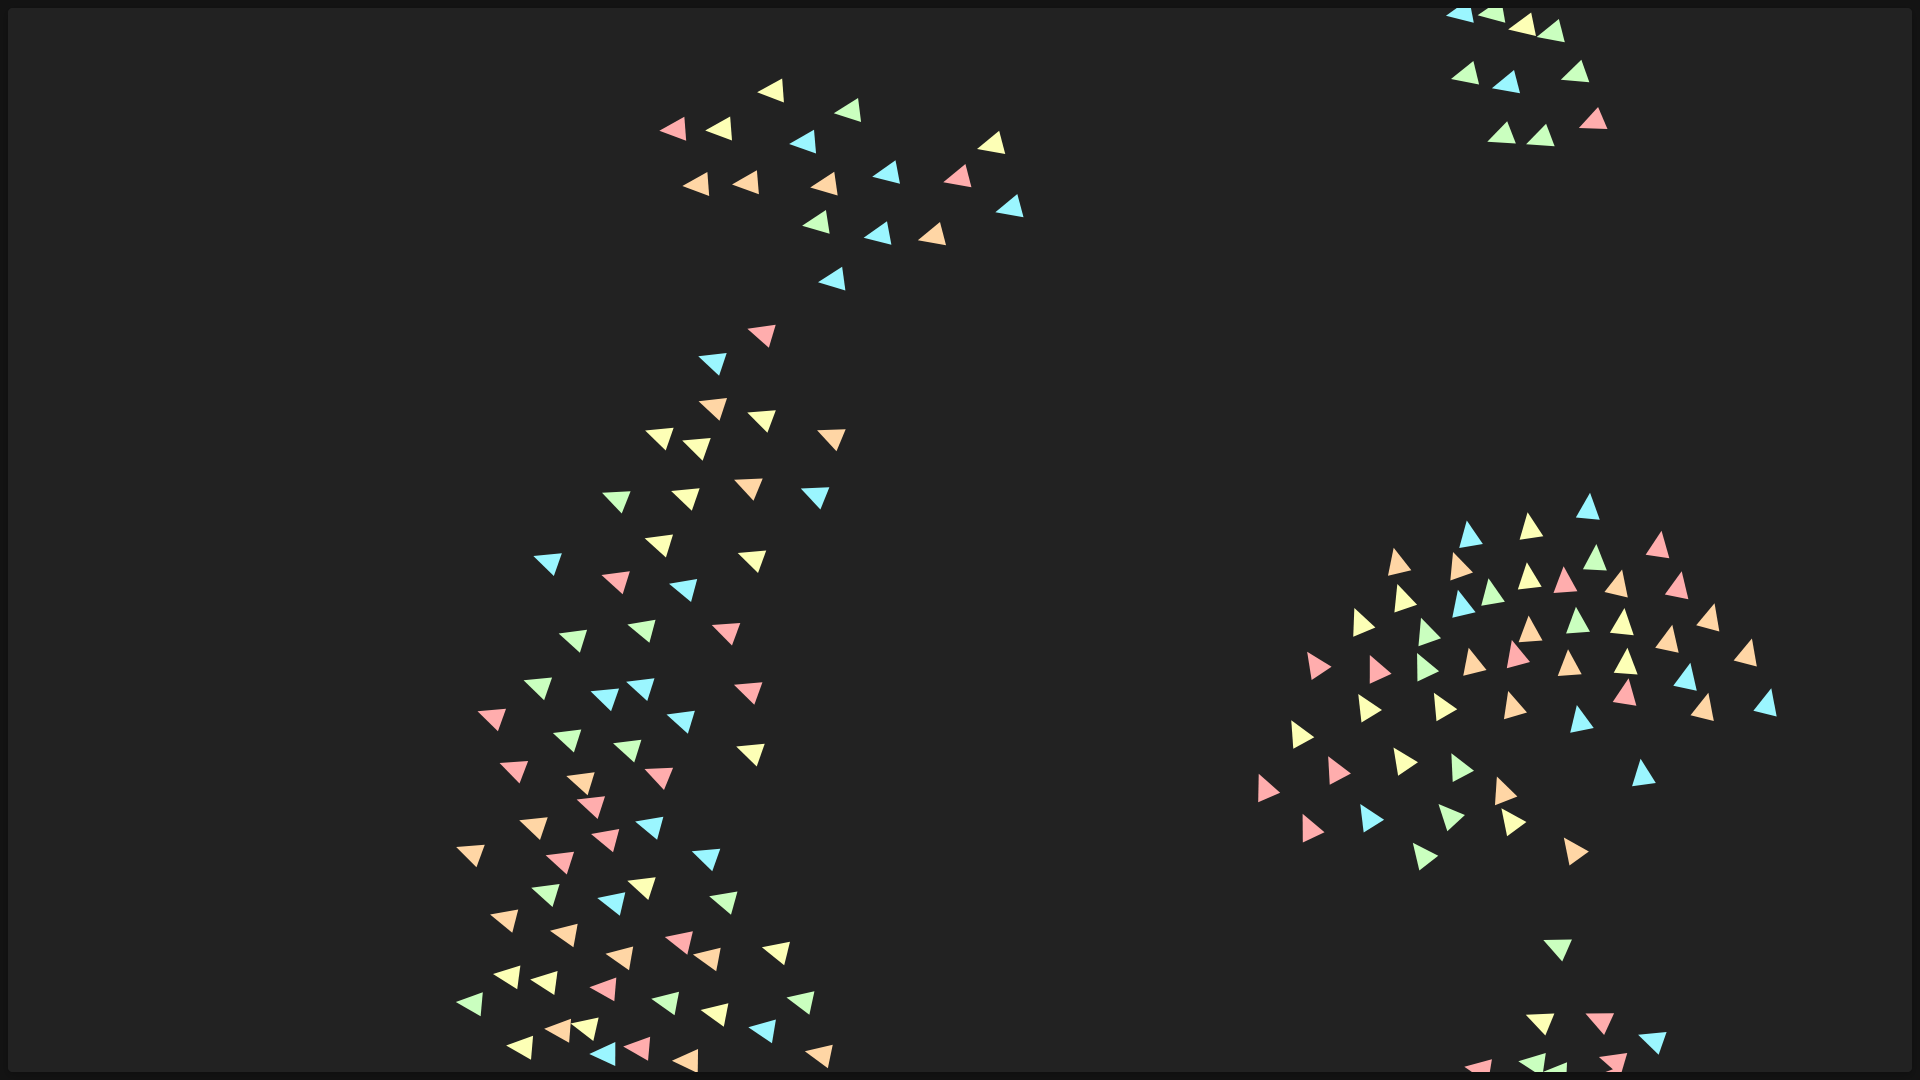
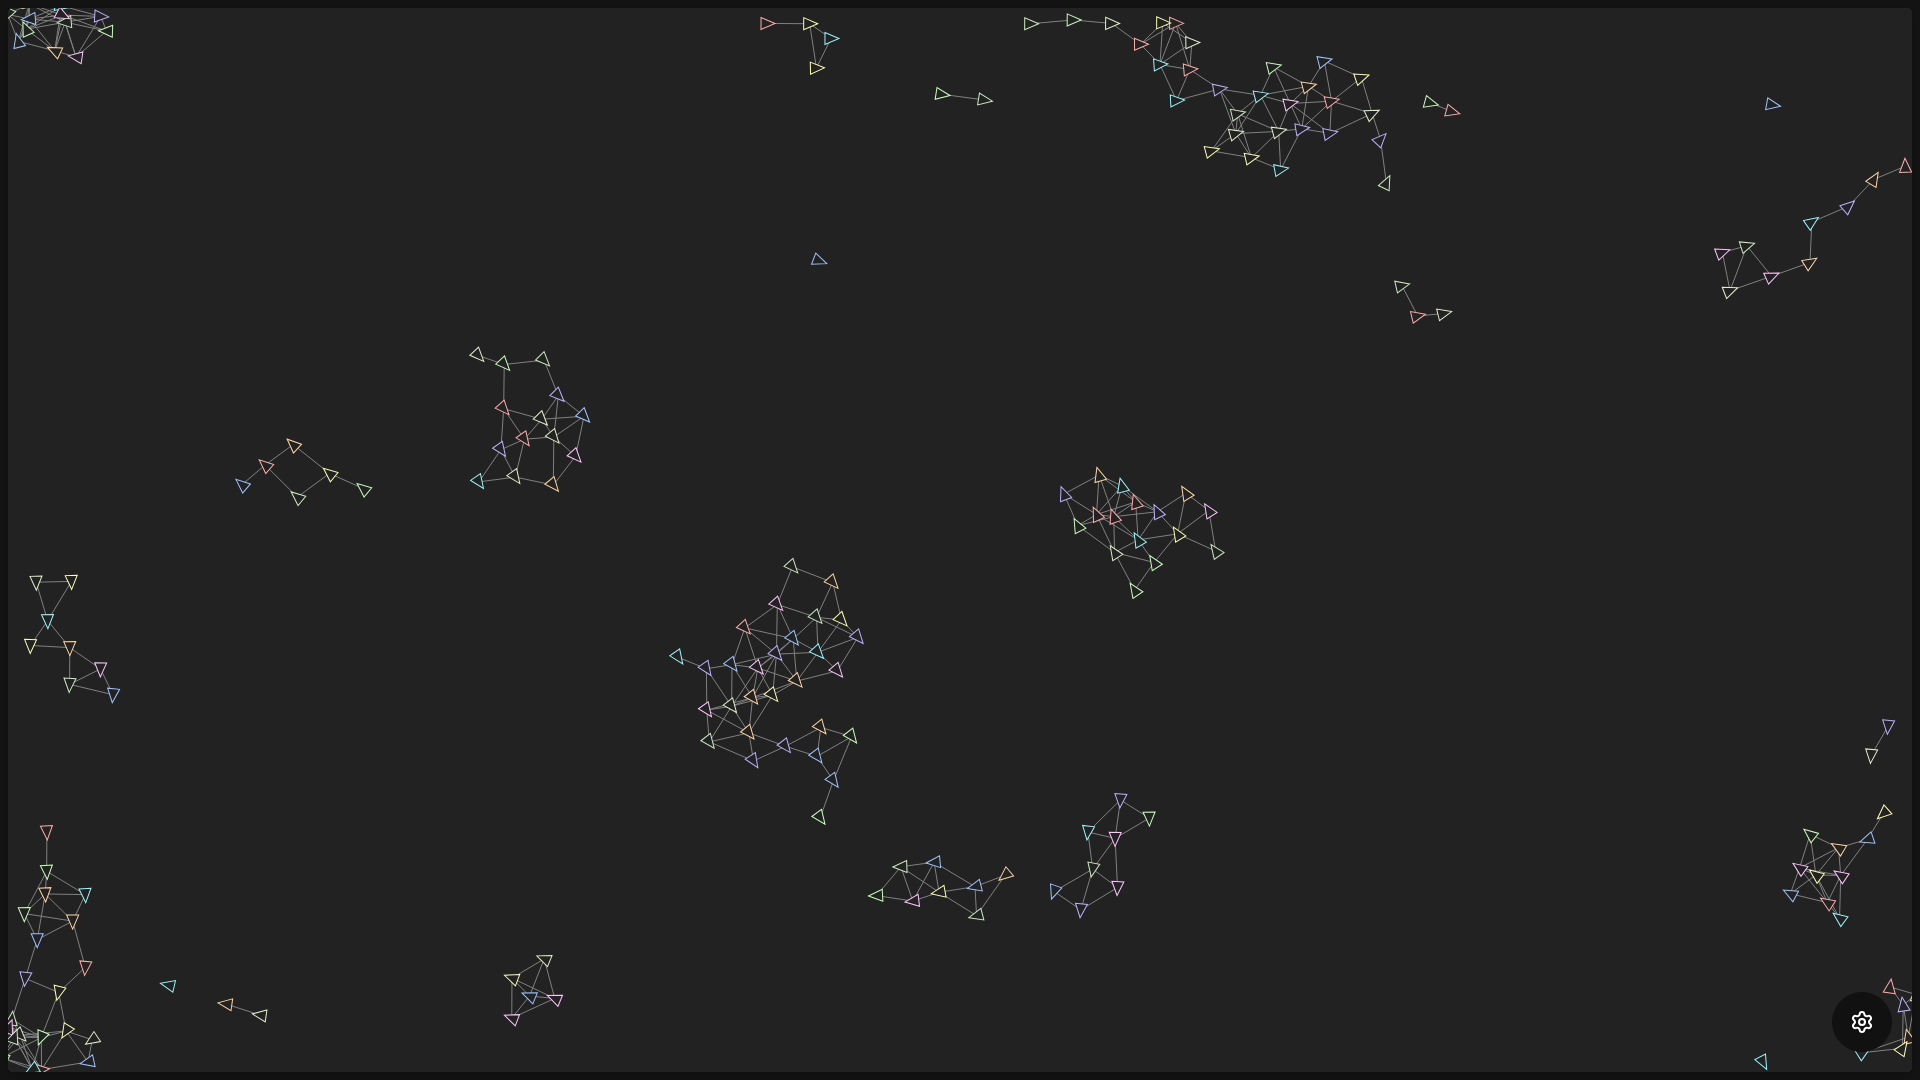
updated build

diff --git a/docs/index.html b/docs/index.html
@@ -5,7 +5,7 @@
     <link rel="icon" type="image/svg+xml" href="/favicon.svg" />
     <meta name="viewport" content="width=device-width, initial-scale=1.0" />
     <title>flock</title>
-    <script type="module" crossorigin src="/flock/assets/index-Dyzd7abQ.js"></script>
+    <script type="module" crossorigin src="/flock/assets/index-DBfQ7EZ_.js"></script>
     <link rel="stylesheet" crossorigin href="/flock/assets/index-jg-j_jF2.css">
   </head>
   <body>
@@ -21,7 +21,6 @@
                     type="range"
                     min="1"
                     max="12"
-                    value="8"
                     step="1"
             />
         </label>
@@ -30,9 +29,8 @@
             <input
                     id="speed"
                     type="range"
-                    min="2"
+                    min="1"
                     max="16"
-                    value="4"
                     step="1"
             />
         </label>
@@ -41,9 +39,8 @@
             <input
                     id="vision"
                     type="range"
-                    min="20"
+                    min="0"
                     max="200"
-                    value="60"
                     step="10"
             />
         </label>
@@ -52,9 +49,8 @@
             <input
                     id="separation"
                     type="range"
-                    min="50"
+                    min="0"
                     max="150"
-                    value="60"
                     step="10"
             />
         </label>
@@ -63,9 +59,8 @@
             <input
                     id="alignment_weight"
                     type="range"
-                    min="0"
+                    min="1"
                     max="10"
-                    value="1"
                     step="1"
             />
         </label>
@@ -74,9 +69,8 @@
             <input
                     id="cohesion_weight"
                     type="range"
-                    min="0"
+                    min="1"
                     max="10"
-                    value="1"
                     step="1"
             />
         </label>
@@ -85,9 +79,8 @@
             <input
                     id="separation_weight"
                     type="range"
-                    min="0"
+                    min="1"
                     max="10"
-                    value="4"
                     step="1"
             />
         </label>
@@ -97,8 +90,7 @@
                     id="lines"
                     type="range"
                     min="0"
-                    max="8"
-                    value="2"
+                    max="4"
                     step="1"
             />
         </label>

diff --git a/docs/assets/index-DBfQ7EZ_.js b/docs/assets/index-DBfQ7EZ_.js
@@ -1,0 +1,1 @@
+(function(){let e=document.createElement(`link`).relList;if(e&&e.supports&&e.supports(`modulepreload`))return;for(let e of document.querySelectorAll(`link[rel="modulepreload"]`))n(e);new MutationObserver(e=>{for(let t of e)if(t.type===`childList`)for(let e of t.addedNodes)e.tagName===`LINK`&&e.rel===`modulepreload`&&n(e)}).observe(document,{childList:!0,subtree:!0});function t(e){let t={};return e.integrity&&(t.integrity=e.integrity),e.referrerPolicy&&(t.referrerPolicy=e.referrerPolicy),e.crossOrigin===`use-credentials`?t.credentials=`include`:e.crossOrigin===`anonymous`?t.credentials=`omit`:t.credentials=`same-origin`,t}function n(e){if(e.ep)return;e.ep=!0;let n=t(e);fetch(e.href,n)}})();var e=10,t=10,n=.8,r={bird_size:6,bird_speed:2,bird_vision:50,bird_separation:40,bird_alignment_weight:2,bird_cohesion_weight:1,bird_separation_weight:10,line_thickness:1},i=[`#FFADAD`,`#FFD6A5`,`#FDFFB6`,`#CAFFBF`,`#9BF6FF`,`#A0C4FF`,`#BDB2FF`,`#FFC6FF`,`#CDEAC0`,`#E2F0CB`,`#B5EAD7`,`#C7CEEA`],a=`#222`,o=`gray`,s=!0,c=class{x;y;vx;vy;color;constructor(e,t,n,r){this.x=e,this.y=t,this.vx=Math.cos(n),this.vy=Math.sin(n),this.color=r}draw(e){e.save(),e.translate(this.x,this.y),e.rotate(Math.atan2(this.vy,this.vx)),e.beginPath(),e.moveTo(r.bird_size+2,0),e.lineTo(-r.bird_size,-r.bird_size),e.lineTo(-r.bird_size,r.bird_size),e.closePath(),e.fillStyle=a,e.fill(),e.strokeStyle=this.color,e.lineWidth=1,e.stroke(),e.restore()}find_neighbors(e,t){let n=[];for(let r of e){if(r==this)continue;let e=r.x-this.x,i=r.y-this.y;e*e+i*i<=t**2&&n.push(r)}return n}align(e){if(e.length===0)return;let t=0,n=0;for(let r of e)t+=r.vx,n+=r.vy;if(e.length===0)return;let i=t/e.length,a=n/e.length,o=i-this.vx,s=a-this.vy;this.vx+=o*(r.bird_alignment_weight/10),this.vy+=s*(r.bird_alignment_weight/10)}normalize_velocity(){let e=Math.sqrt(this.vx*this.vx+this.vy*this.vy);e!==0&&(this.vx=this.vx/e*r.bird_speed,this.vy=this.vy/e*r.bird_speed)}move(){this.x+=this.vx,this.y+=this.vy}cohesion(e){let t=0,n=0;for(let r of e)t+=r.x,n+=r.y;if(e.length===0)return;let i=t/e.length,a=n/e.length,o=i-this.x,s=a-this.y;this.vx+=o*(r.bird_cohesion_weight/1e3),this.vy+=s*(r.bird_cohesion_weight/1e3)}separation(e){let t=0,n=0,i=r.bird_separation*r.bird_separation;for(let r of e){if(r===this)continue;let e=this.x-r.x,a=this.y-r.y,o=e*e+a*a;o===0||o>i||(t+=e/o,n+=a/o)}this.vx+=t*(r.bird_separation_weight/10),this.vy+=n*(r.bird_separation_weight/10)}avoid_wall(e){let i=t+r.bird_size;if(this.x<i&&this.vx<0){let e=(i-this.x)/i;this.vx+=e*n}if(this.x>e.width-i&&this.vx>0){let t=(i-(e.width-this.x))/i;this.vx-=t*n}if(this.y<i&&this.vy<0){let e=(i-this.y)/i;this.vy+=e*n}if(this.y>e.height-i&&this.vy>0){let t=(i-(e.height-this.y))/i;this.vy-=t*n}}static lines(e,t){for(let n=0;n<e.length;n++)for(let i=n+1;i<e.length;i++){let a=e[n],s=e[i],c=a.x-s.x,l=a.y-s.y;c*c+l*l<=r.bird_vision**2&&(t.beginPath(),t.moveTo(a.x,a.y),t.lineTo(s.x,s.y),t.lineWidth=r.line_thickness,t.strokeStyle=o,t.stroke())}}update(e,t){let n=this.find_neighbors(e,r.bird_vision);this.align(n),this.cohesion(n),this.separation(n),this.avoid_wall(t),this.normalize_velocity(),this.move()}};function l(e,t,n){if(t.clearRect(0,0,e.width,e.height),s)for(let t of n)t.update(n,e);r.line_thickness!=0&&c.lines(n,t);for(let e of n)e.draw(t);requestAnimationFrame(()=>l(e,t,n))}function u(){let t=document.getElementById(`canvas`);if(t==null)return;let n=t.getContext(`2d`);if(n==null)return;t.width=window.innerWidth,t.height=window.innerHeight,t.style.backgroundColor=a;let o=[];for(let n=0;n<e;++n)o.push(new c(Math.random()*(t.width-0),Math.random()*(t.height-0),Math.random()*Math.PI*2,i[n%i.length]));window.addEventListener(`keydown`,e=>{e.code===`Space`&&(s=!s)}),window.addEventListener(`click`,t=>{for(let n=0;n<e;n++)o.push(new c(t.clientX,t.clientY,Math.random()*Math.PI*2,i[n%i.length]))});let u=document.getElementById(`settings-toggle`),d=document.getElementById(`settings-panel`);if(!d||!u)return;u.addEventListener(`click`,()=>{d.classList.toggle(`hidden`)});let f=document.getElementById(`size`),p=document.getElementById(`speed`),m=document.getElementById(`vision`),h=document.getElementById(`separation`),g=document.getElementById(`alignment_weight`),_=document.getElementById(`cohesion_weight`),v=document.getElementById(`separation_weight`),y=document.getElementById(`lines`);!f||!p||!m||!h||!g||!_||!v||!y||(f.value=String(r.bird_size),p.value=String(r.bird_speed),m.value=String(r.bird_vision),h.value=String(r.bird_separation),g.value=String(r.bird_alignment_weight),_.value=String(r.bird_cohesion_weight),v.value=String(r.bird_separation_weight),y.value=String(r.line_thickness),f.addEventListener(`input`,()=>{r.bird_size=Number(f.value);let e=f.nextElementSibling;e.textContent=f.value}),p.addEventListener(`input`,()=>{r.bird_speed=Number(p.value);let e=p.nextElementSibling;e.textContent=p.value}),m.addEventListener(`input`,()=>{r.bird_vision=Number(m.value);let e=m.nextElementSibling;e.textContent=m.value}),h.addEventListener(`input`,()=>{r.bird_separation=Number(h.value);let e=h.nextElementSibling;e.textContent=h.value}),g.addEventListener(`input`,()=>{r.bird_alignment_weight=Number(g.value);let e=g.nextElementSibling;e.textContent=g.value}),_.addEventListener(`input`,()=>{r.bird_cohesion_weight=Number(_.value);let e=_.nextElementSibling;e.textContent=_.value}),v.addEventListener(`input`,()=>{r.bird_separation_weight=Number(v.value);let e=v.nextElementSibling;e.textContent=v.value}),y.addEventListener(`click`,()=>{r.line_thickness=Number(y.value);let e=y.nextElementSibling;e.textContent=y.value}),l(t,n,o))}u();